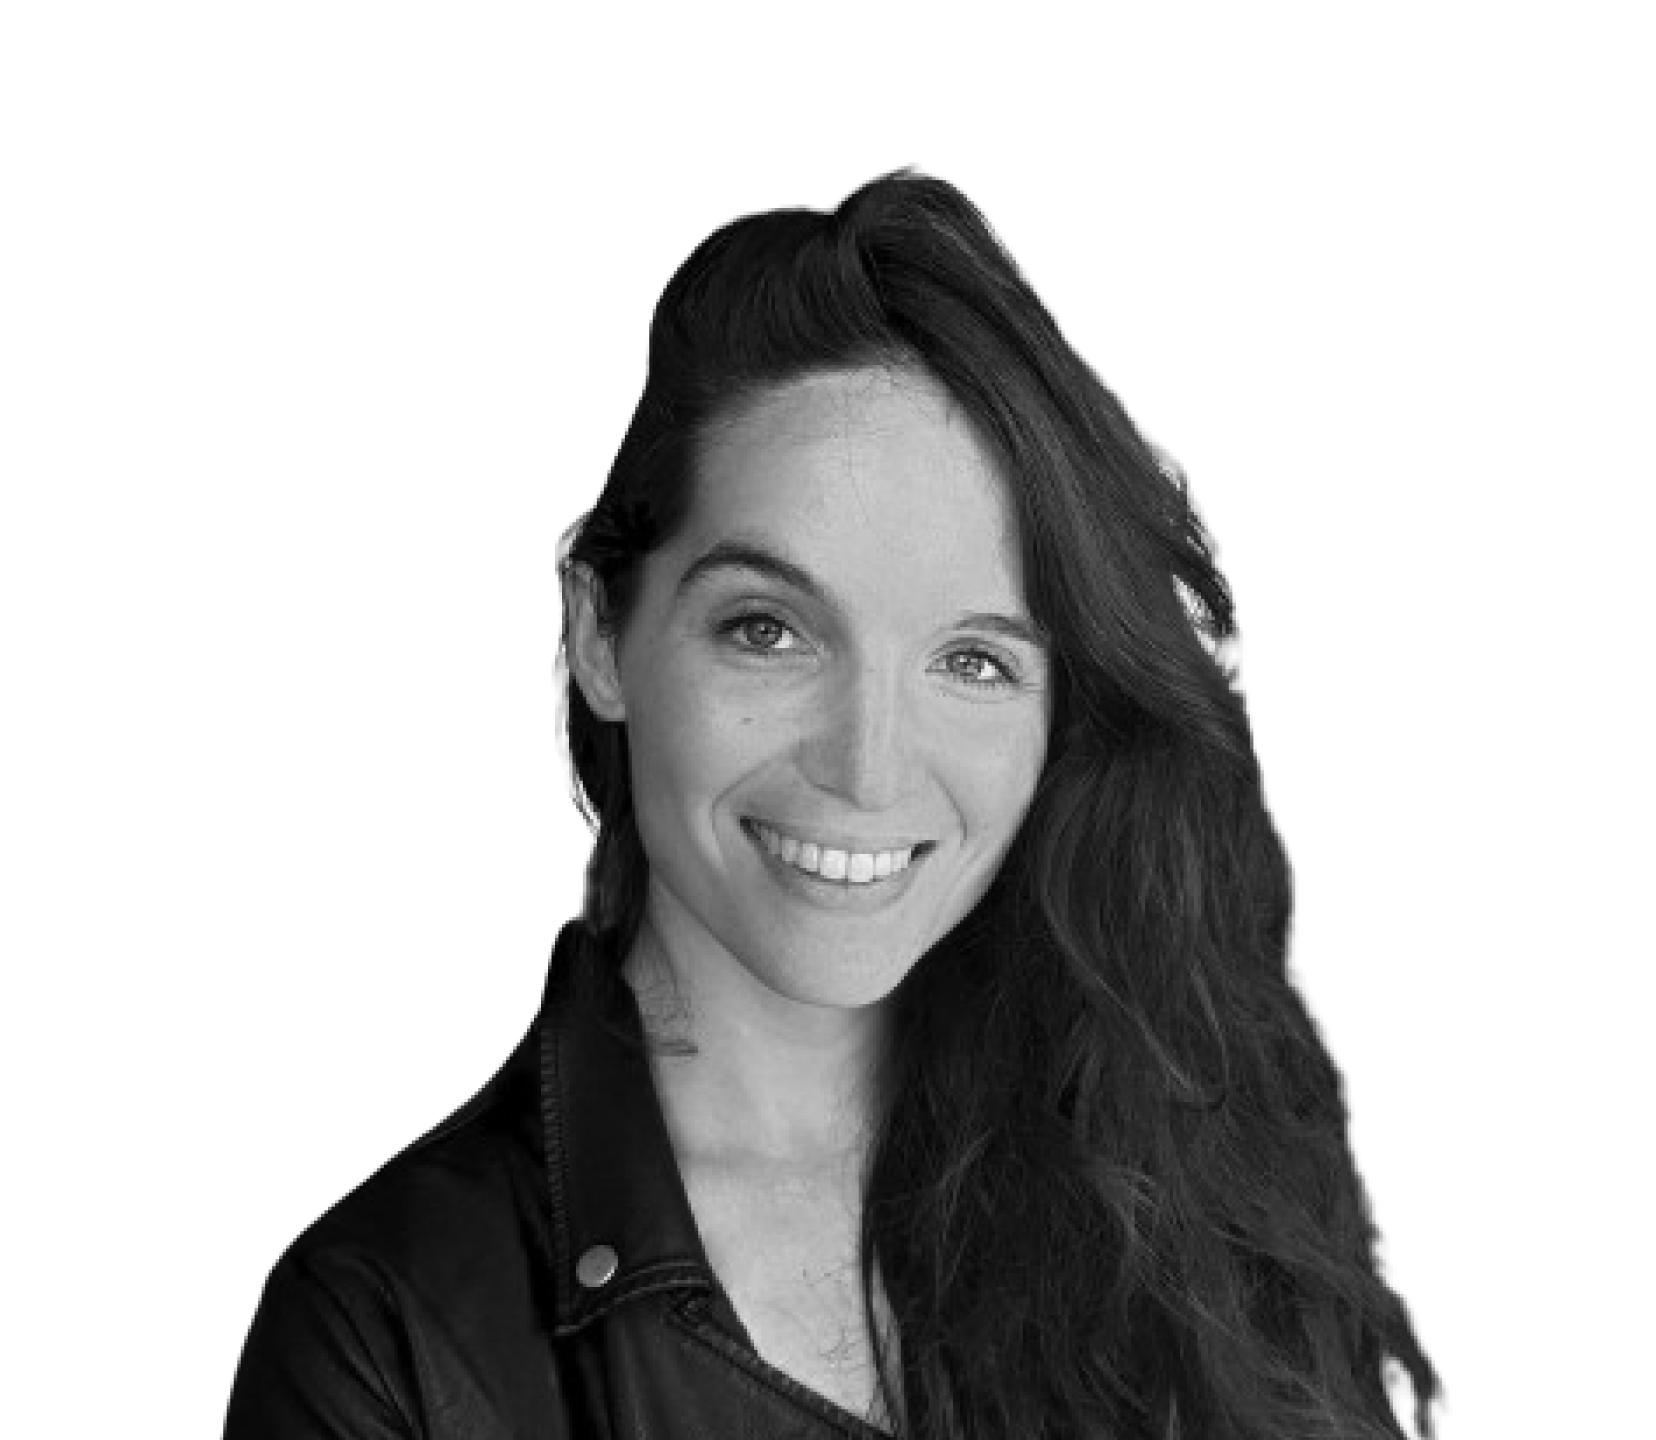
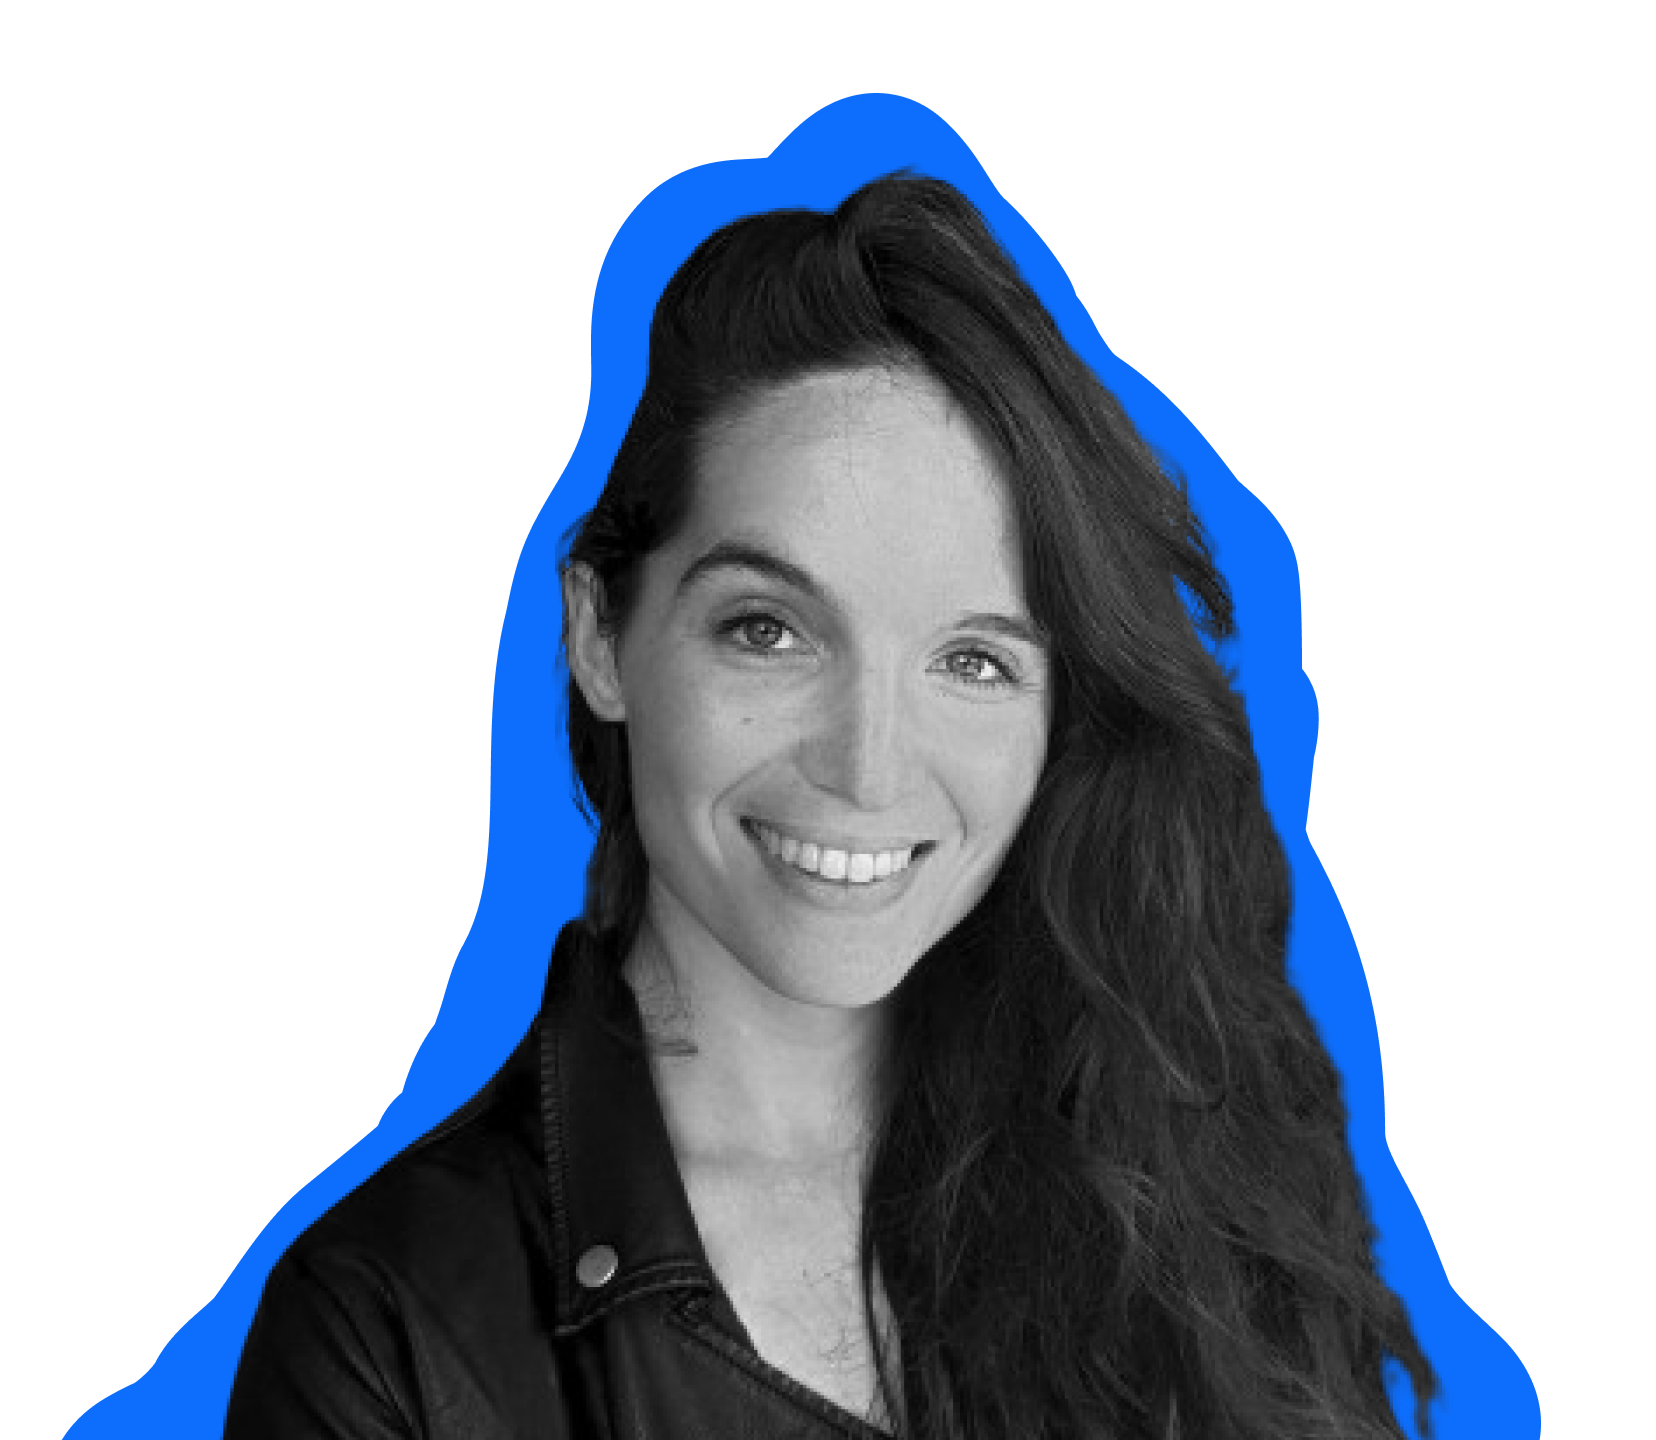
mise à jour nav bar et hero

Changed region(s): [[0.0308, 0.0625, 0.9547, 1.0]]

diff --git a/index.html b/index.html
@@ -7,36 +7,70 @@
     <link href="https://cdn.jsdelivr.net/npm/bootstrap@5.3.3/dist/css/bootstrap.min.css" rel="stylesheet" integrity="sha384-QWTKZyjpPEjISv5WaRU9OFeRpok6YctnYmDr5pNlyT2bRjXh0JMhjY6hW+ALEwIH" crossorigin="anonymous">
   </head>
   <body>
-    <nav class="navbar navbar-expand-lg bg-body-tertiary">
-        <div class="container-fluid">
-          <a class="navbar-brand" href="#"><img src="./images/logo-sa.svg" class="card-img-top img-fluid" alt="logo" style="max-height: 75px;"></a>
+    <nav class="navbar navbar-expand-lg bg-body-tertiary navbar-fixed-top">
+      <div class="container-fluid">
+          <a class="navbar-brand" href="#">
+              <img src="./images/logo-sa.svg" alt="logo" style="max-height: 75px;">
+          </a>
           <button class="navbar-toggler" type="button" data-bs-toggle="collapse" data-bs-target="#navbarSupportedContent" aria-controls="navbarSupportedContent" aria-expanded="false" aria-label="Toggle navigation">
-            <span class="navbar-toggler-icon"></span>
+              <span class="navbar-toggler-icon"></span>
           </button>
           <div class="collapse navbar-collapse" id="navbarSupportedContent">
-            <ul class="navbar-nav ms-auto mb-2 mb-lg-0">
-              <li class="nav-item">
-                <a class="nav-link active" aria-current="page" href="#intro">Intro</a>
-              </li>
-              <li class="nav-item">
-                <a class="nav-link" href="#services">Ce que je fais</a>
-              </li>
-              <li class="nav-item">
-                <a class="nav-link" href="#experiences">Portfolio</a>
-              </li>
-              <li class="nav-item">
-                <a class="nav-link" href="#contact">Contact</a>
-              </li>
-            </ul>
+              <ul class="navbar-nav ms-auto mb-2 mb-lg-0">
+                  <li class="nav-item">
+                      <a class="nav-link active" aria-current="page" href="#intro">Intro</a>
+                  </li>
+                  <li class="nav-item">
+                      <a class="nav-link" href="#services">Ce que je fais</a>
+                  </li>
+                  <li class="nav-item">
+                      <a class="nav-link" href="#experiences">Portfolio</a>
+                  </li>
+                  <li class="nav-item">
+                    <button class="btn btn-primary" data-bs-toggle="modal" data-bs-target="#contactModal">Contactez-moi</button>
+                </li>
+                  <li class="nav-item">
+                      <a class="nav-link" href="https://www.linkedin.com/in/sarah-ablonet/" target="_blank">
+                        <svg xmlns="http://www.w3.org/2000/svg" width="16" height="16" fill="currentColor" class="bi bi-linkedin" viewBox="0 0 16 16">
+                          <path d="M0 1.146C0 .513.526 0 1.175 0h13.65C15.474 0 16 .513 16 1.146v13.708c0 .633-.526 1.146-1.175 1.146H1.175C.526 16 0 15.487 0 14.854zm4.943 12.248V6.169H2.542v7.225zm-1.2-8.212c.837 0 1.358-.554 1.358-1.248-.015-.709-.52-1.248-1.342-1.248S2.4 3.226 2.4 3.934c0 .694.521 1.248 1.327 1.248zm4.908 8.212V9.359c0-.216.016-.432.08-.586.173-.431.568-.878 1.232-.878.869 0 1.216.662 1.216 1.634v3.865h2.401V9.25c0-2.22-1.184-3.252-2.764-3.252-1.274 0-1.845.7-2.165 1.193v.025h-.016l.016-.025V6.169h-2.4c.03.678 0 7.225 0 7.225z"/>
+                        </svg>
+                      </a>
+                  </li>
+              </ul>
           </div>
-        </div>
-    </nav>
-
+      </div>
+  </nav>
+  
+  <!-- Modal pour le formulaire de contact -->
+  <div class="modal fade" id="contactModal" tabindex="-1" aria-labelledby="contactModalLabel" aria-hidden="true">
+      <div class="modal-dialog">
+          <div class="modal-content">
+              <div class="modal-header">
+                  <form action="mailto:sarahablonet.studio@gmail.com" method="post" enctype="text/plain">
+                    <div class="mb-3">
+                      <label for="name" class="form-label">Nom</label>
+                      <input type="text" class="form-control" id="name" name="name" required>
+                    </div>
+                    <div class="mb-3">
+                      <label for="email" class="form-label">Email</label>
+                      <input type="email" class="form-control" id="email" name="email" required>
+                    </div>
+                    <div class="mb-3">
+                      <label for="message" class="form-label">Message</label>
+                      <textarea class="form-control" id="message" name="message" rows="3" required></textarea>
+                    </div>
+                    <button type="submit" class="btn btn-primary">Envoyer</button>
+                  </form>
+              </div>
+          </div>
+      </div>
+    </div>
+  
     <!-- Hero -->
-    <div class="hero" style="background-color: darkolivegreen;">
-      <div class="container my-5">
+    <div class="hero-primary">
+      <div class="container my-5 py-5"">
         <div id="intro" class="row align-items-center">
-            <div class="col-md-6" style= "color: white;">
+            <div class="col-md-6">
                 <h1 class="display-4">Product Designer, je crée des solutions digitales centrées utilisateurs.</h1>
                 <p class="lead">9 ans d’expérience dans le Marketing et le Produit</p>
             </div>
@@ -46,31 +80,34 @@
         </div>
       </div>
       </div
-    <!-- Services -->
-  <div class="intro" style="background-color: lightpink;">  
-    <div class="container my-5">
-      <div id="services" class="row">
-          <div class="col-12">
-              <p class="text-center">Mes expériences, dont 4 ans en start-up, et mes formations m’ont permises de me perfectionner dans l’expérience utilisateur, le design et le développement. Passionnée par le design et les nouvelles technologies, je suis toujours à la recherche de nouvelles compétences.</p>
-          </div>
-      </div>
-      <div class="row text-center">
-          <div class="col-6 col-md-3">
-            <img src="./images/Simplon.png" class="img-fluid" alt="Logo de Simplon">
-          </div>
-          <div class="col-6 col-md-3">
-              <img src="./images/The Design Crew.png" class="img-fluid" alt="Logo de The Design Crew">
-          </div>
-          <div class="col-6 col-md-3">
-              <img src="./images/IAE Lille.png" class="img-fluid" alt="Logo de l'IAE Lille">
-          </div>
-          <div class="col-6 col-md-3">
-              <img src="./images/Ecole multimédia.png" class="img-fluid" alt="L'Ecole Multimédia">
-          </div>
-      </div>
+  
+<!-- Intro -->
+<div class="intro bg-primary">
+  <div class="container my-5 py-5">
+    <div id="services" class="row">
+        <div class="col-12">
+            <p class="text-center">Mes expériences, dont 4 ans en start-up, et mes formations m’ont permises de me perfectionner dans l’expérience utilisateur, le design et le développement. Passionnée par le design et les nouvelles technologies, je suis toujours à la recherche de nouvelles compétences.</p>
+        </div>
     </div>
+    <div class="row text-center">
+        <div class="col-6 col-md-3">
+          <img src="./images/Simplon.png" class="img-fluid" alt="Logo de Simplon">
+        </div>
+        <div class="col-6 col-md-3">
+            <img src="./images/The Design Crew.png" class="img-fluid" alt="Logo de The Design Crew">
+        </div>
+        <div class="col-6 col-md-3">
+            <img src="./images/IAE Lille.png" class="img-fluid" alt="Logo de l'IAE Lille">
+        </div>
+        <div class="col-6 col-md-3">
+            <img src="./images/Ecole multimédia.png" class="img-fluid" alt="L'Ecole Multimédia">
+        </div>
     </div>
-      <div id="services" class="container my-5">
+  </div>
+</div>
+
+  <!-- Ce que je fais -->
+      <div id="services" class="container my-5 py-5"">
           <h2 class="text-center">Ce que je fais</h2>
           <div class="d-flex flex-wrap justify-content-center gap-2">
               <span class="badge bg-dark">Web Design</span>
@@ -94,7 +131,7 @@
 
 
       <!-- Design system -->
-      <div class="container my-5">
+      <div class="container my-5 py-5">
         <h3 class="text-center">Mise en place d'un design system</h3>
         <p class="text-center">En partant de zéro ou avec une base existante, en co-construction efficace et collaborative, je construis votre design system en prenant en compte les normes techniques.</p>
         <div class="row">
@@ -138,7 +175,7 @@
       </div>
 
       <!-- Facilitation -->
-      <div class="container my-5">
+      <div class="container my-5 py-5">
         <h2 class="text-center">Facilitation et animation</h2>
         <p class="text-center">Animatrice expérimentée, j’accompagne des ateliers en tant que facilitatrice et co-organise l’antenne FrenchProduit à Rennes.</p>
       </div>
@@ -193,7 +230,7 @@
         </div>
       </div>
 
-      <!-- Section Contact avec Formulaire -->
+      <!-- Section Contact avec Formulaire
       <div id="contact" class="container my-5">
         <h2 class="text-center">Contact</h2>
         <form action="mailto:sarahablonet.studio@gmail.com" method="post" enctype="text/plain">
@@ -211,7 +248,7 @@
           </div>
           <button type="submit" class="btn btn-primary">Envoyer</button>
         </form>
-      </div>
+      </div> -->
     <script src="https://cdn.jsdelivr.net/npm/bootstrap@5.3.3/dist/js/bootstrap.bundle.min.js" integrity="sha384-YvpcrYf0tY3lHB60NNkmXc5s9fDVZLESaAA55NDzOxhy9GkcIdslK1eN7N6jIeHz" crossorigin="anonymous"></script>
   </body>
 </html>
